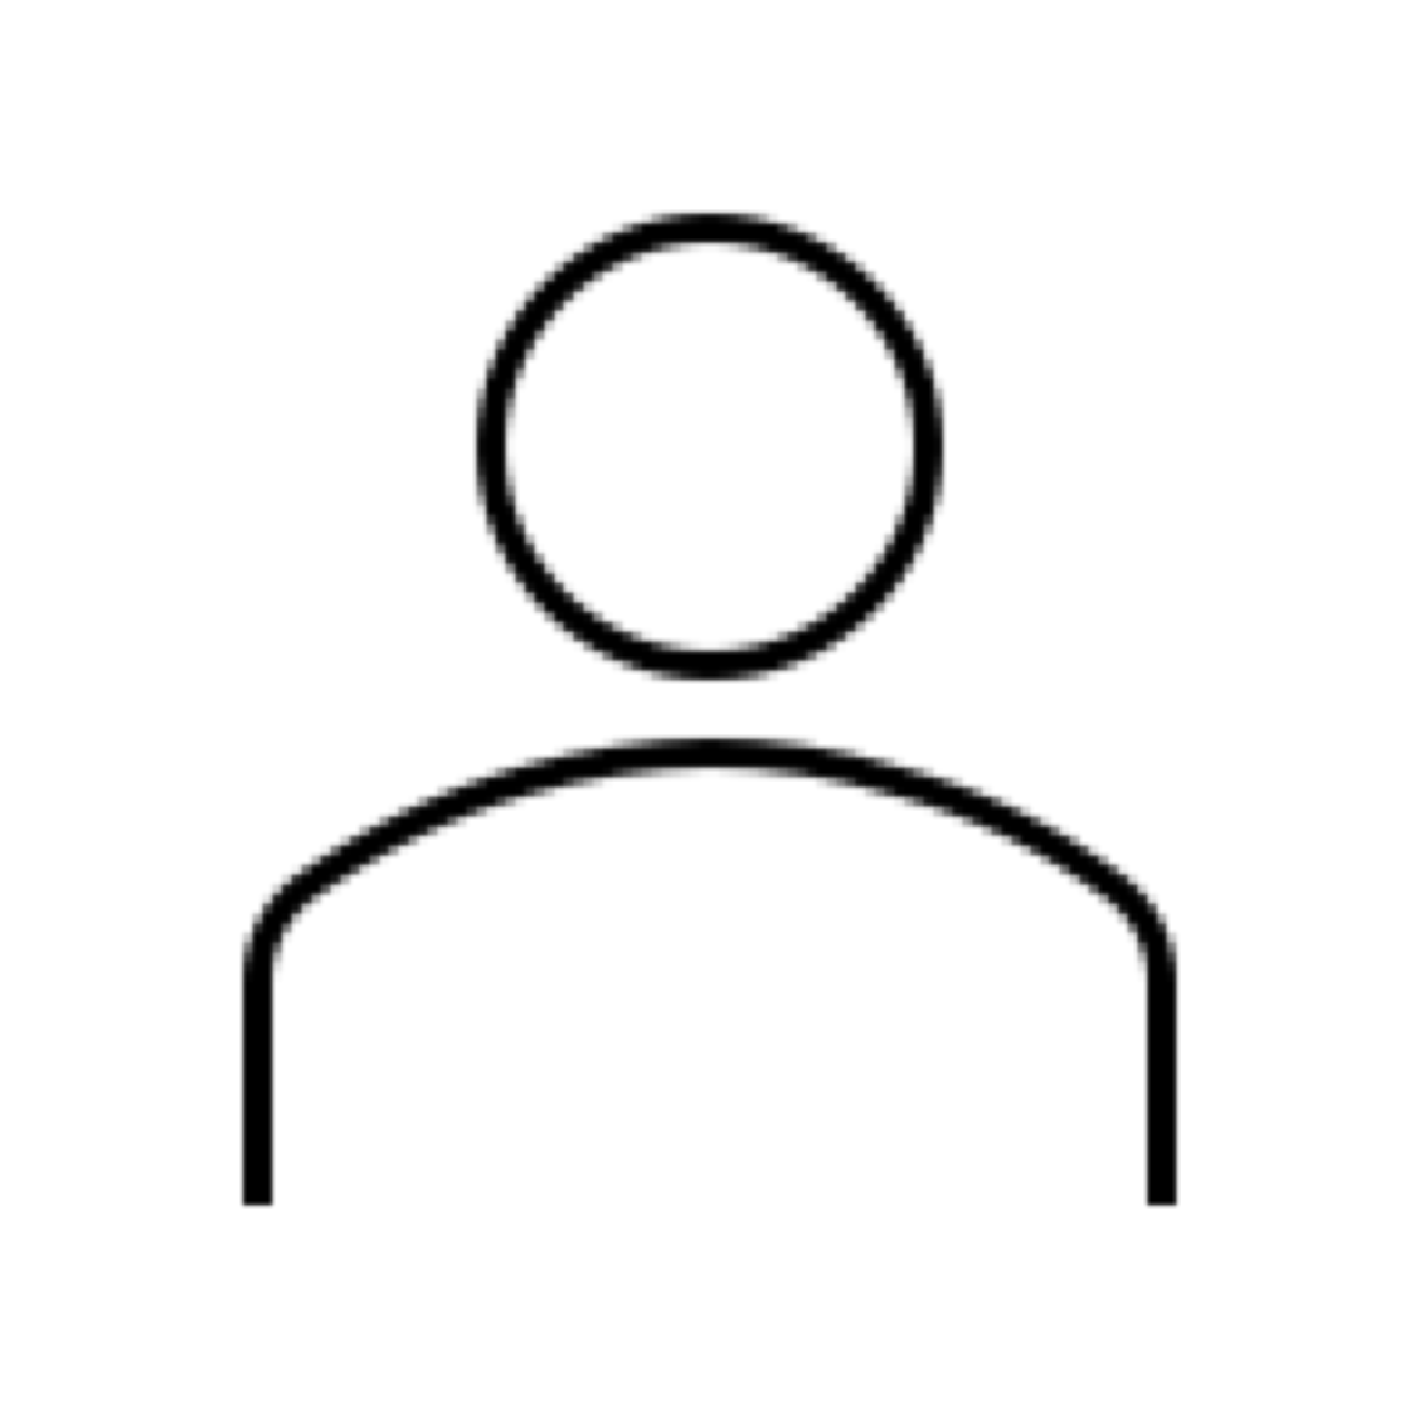
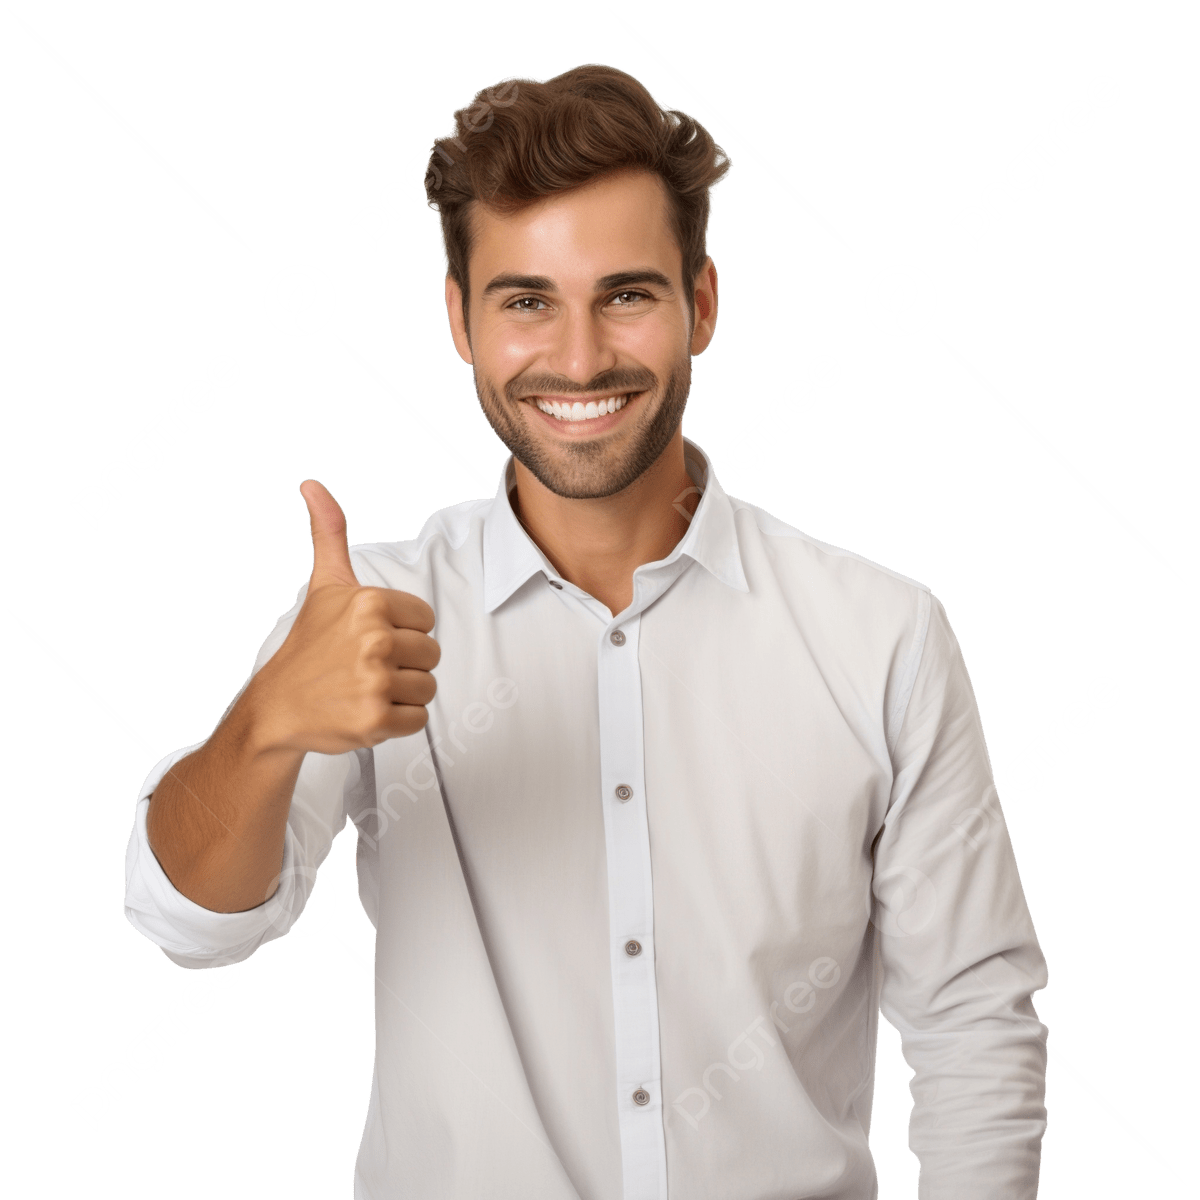
Completed module 1

diff --git a/server/frontend/static/Contact.html b/server/frontend/static/Contact.html
@@ -1,0 +1,56 @@
+<html>
+<head>
+  <!-- Link the style sheet here -->
+    <link rel="stylesheet" href="/static/style.css">
+    <link rel="stylesheet" href="/static/bootstrap.min.css">
+</head>
+<div>
+  <nav class="navbar navbar-expand-lg navbar-light" style="background-color:darkturquoise; height: 1in;">
+    <div class="container-fluid">
+      <h2 style="padding-right: 5%;">Dealerships</h2>
+      <button class="navbar-toggler" type="button" data-bs-toggle="collapse" data-bs-target="#navbarText" aria-controls="navbarText" aria-expanded="false" aria-label="Toggle navigation">
+        <span class="navbar-toggler-icon"></span>
+      </button>
+      <div class="collapse navbar-collapse" id="navbarText">
+        <ul class="navbar-nav me-auto mb-2 mb-lg-0">
+          <li class="nav-item">
+            <a class="nav-link" style="font-size: larger;" aria-current="page" href="/">Home</a>
+          </li>
+          <li class="nav-item">
+            <a class="nav-link" style="font-size: larger;" href="/about">About Us</a>
+          </li>
+          <li class="nav-item">
+            <a class="nav-link active" style="font-size: larger;" href="/contact">Contact Us</a>
+          </li>
+        </ul>
+      </div>
+    </div>
+  </nav>
+  
+    <div class="card" style="width: 80%;margin: auto; margin-top:5%;">
+      <div class="banner" name="about-header">
+        <!-- Insert header information here -->
+        <h1>Contact Us</h1>
+        <table>
+            <tr>
+                <td>Name: </td>
+                <td>Test User</td>
+            </tr>
+            <tr>
+                <td>Email: </td>
+                <td>[email redacted]</td>
+            </tr>
+            <tr>
+                <td>Tell: </td>
+                <td>+1876-000-0000</td>
+            </tr>
+        </table>   
+      </div>
+     
+    </div>
+    </div>
+    </div>
+    
+</div>
+
+</html>

diff --git a/server/frontend/static/About.html b/server/frontend/static/About.html
@@ -1,6 +1,8 @@
 <html>
 <head>
   <!-- Link the style sheet here -->
+    <link rel="stylesheet" href="/static/style.css">
+    <link rel="stylesheet" href="/static/bootstrap.min.css">
 </head>
 <div>
   <nav class="navbar navbar-expand-lg navbar-light" style="background-color:darkturquoise; height: 1in;">
@@ -28,14 +30,16 @@
     <div class="card" style="width: 80%;margin: auto; margin-top:5%;">
       <div class="banner" name="about-header">
       <!-- Insert header information here -->
-      </div>
+        <h1>About Us</h1>
+        Welcome to Best Cars dealership, home to the best cars in North America. We deal in selling domestic and imported cars at reasonable prices.    
+        </div>
       <div style="display: flex;flex-direction: row; margin:auto">
       <div class="card" style="width: 30%;">
         <img class="card-img-top" src="/static/person.png" alt="Card image">
         <div class="card-body">
           <p class="title">Person1</p>
           <p>Person1 Title</p>
-          <p class="card-text">Some text that explains the person1 in about 2 short sentences</p>
+          <p class="card-text">I am the best dealer in the world or just in this app.</p>
           <p>[email redacted]</p>
         </div>
       </div>
@@ -45,7 +49,7 @@
         <div class="card-body">
           <p class="title">Person2</p>
           <p>Person2 Title</p>
-          <p class="card-text">Some text that explains the person2 in about 2 short sentences</p>
+          <p class="card-text">The other guys meet tell you that they are the best persons but that is me.</p>
           <p>[email redacted]</p>
         </div>
       </div>
@@ -55,7 +59,7 @@
         <div class="card-body">
           <p class="title">Person3</p>
           <p>Person3 Title</p>
-          <p class="card-text">Some text that explains the person3 in about 2 short sentences</p>
+          <p class="card-text">Surely now, the best person is me.</p>
           <p>[email redacted]</p>
         </div>
       </div>

diff --git a/server/djangoproj/settings.py b/server/djangoproj/settings.py
@@ -28,8 +28,14 @@ SECRET_KEY =\
 # SECURITY WARNING: don't run with debug turned on in production!
 DEBUG = True
 
-ALLOWED_HOSTS = []
-CSRF_TRUSTED_ORIGINS = []
+ALLOWED_HOSTS = [
+    'localhost',
+    'localhost:8000'
+    'gavinpalmer-8000.theianext-1-labs-prod-misc-tools-us-east-0.proxy.cognitiveclass.ai',
+]
+CSRF_TRUSTED_ORIGINS = [
+    'https://gavinpalmer-8000.theianext-1-labs-prod-misc-tools-us-east-0.proxy.cognitiveclass.ai'
+]
 
 REST_FRAMEWORK = {
     'DEFAULT_AUTHENTICATION_CLASSES': [],
@@ -61,7 +67,9 @@ ROOT_URLCONF = 'djangoproj.urls'
 TEMPLATES = [
     {
         'BACKEND': 'django.template.backends.django.DjangoTemplates',
-        'DIRS': [],
+        'DIRS': [
+            os.path.join(BASE_DIR,'frontend/static')
+        ],
         'APP_DIRS': True,
         'OPTIONS': {
             'context_processors': [
@@ -134,5 +142,7 @@ MEDIA_URL = '/media/'
 
 DEFAULT_AUTO_FIELD = 'django.db.models.BigAutoField'
 
-STATICFILES_DIRS = []
+STATICFILES_DIRS = [
+    os.path.join(BASE_DIR,'frontend/static')
+]
 

diff --git a/server/djangoproj/urls.py b/server/djangoproj/urls.py
@@ -22,5 +22,7 @@ from django.conf import settings
 urlpatterns = [
     path('admin/', admin.site.urls),
     path('djangoapp/', include('djangoapp.urls')),
+    path('about/', TemplateView.as_view(template_name="About.html")),
+    path('contact/', TemplateView.as_view(template_name="Contact.html")),
     path('', TemplateView.as_view(template_name="Home.html")),
 ] + static(settings.STATIC_URL, document_root=settings.STATIC_ROOT)